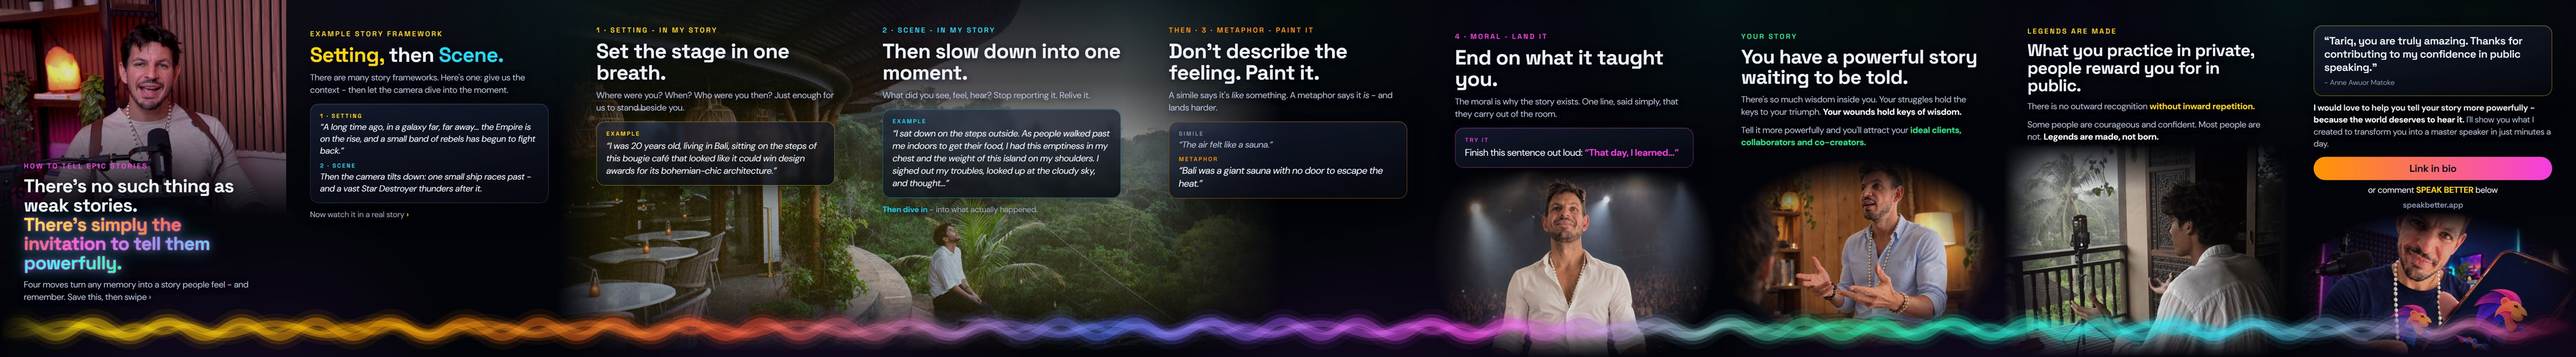
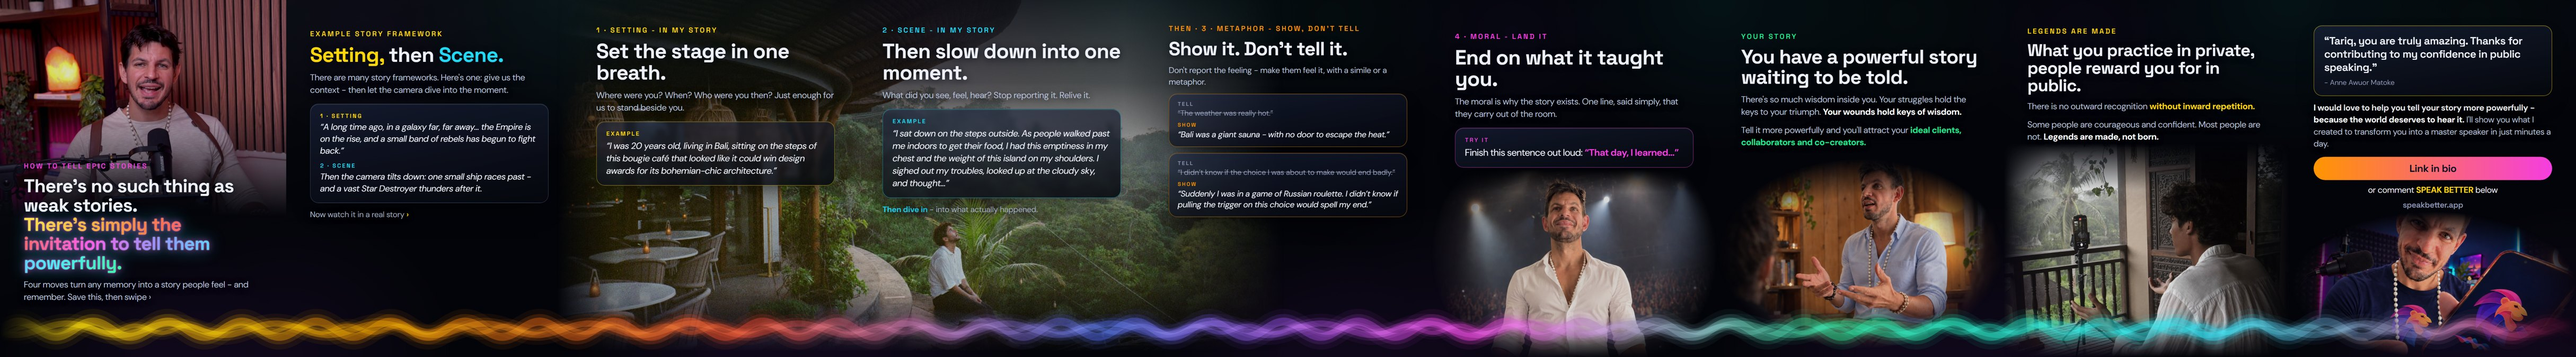
Phone deck viewer: Post 4 black - slide 5 as show, don't tell

Changed region(s): [[0.435, 0.1244, 0.5593, 0.5911], [0.435, 0.0622, 0.5282, 0.0933]]

diff --git a/public/d-BlBAiR0ZRDrG/post4-black.html b/public/d-BlBAiR0ZRDrG/post4-black.html
@@ -5,7 +5,7 @@ main{max-width:540px;margin:0 auto;padding:16px 16px 48px}h1{font-size:18px;marg
 .dots{display:flex;justify-content:center;gap:6px;margin:10px 0 18px}.dots i{width:6px;height:6px;border-radius:50%;background:#36406a}.dots i.on{background:#22D9F5}
 .pano{overflow-x:auto;border-radius:8px}.pano img{height:260px;display:block}h2{font-size:14px;margin:22px 0 8px;color:#B9C0D8}</style></head><body><main>
 <a href="index.html">‹ All</a><h1>Post 4 · How to Tell Epic Stories - black</h1><small>9 slides · swipe like Instagram</small><small style="display:block;margin:6px 0">Version: <a href="post4.html">Glassy gradient</a> · <a href="post4-black.html">Black</a></small>
-<div class="car" id="c"><img src="post4-black/01.jpg?v=8" alt="Slide 1"><img src="post4-black/02.jpg?v=8" alt="Slide 2"><img src="post4-black/03.jpg?v=8" alt="Slide 3"><img src="post4-black/04.jpg?v=8" alt="Slide 4"><img src="post4-black/05.jpg?v=8" alt="Slide 5"><img src="post4-black/06.jpg?v=8" alt="Slide 6"><img src="post4-black/07.jpg?v=8" alt="Slide 7"><img src="post4-black/08.jpg?v=8" alt="Slide 8"><img src="post4-black/09.jpg?v=8" alt="Slide 9"></div><div class="dots" id="d"><i></i><i></i><i></i><i></i><i></i><i></i><i></i><i></i><i></i></div>
-<h2>The whole panorama (scroll sideways)</h2><div class="pano"><img src="post4-black/panorama.jpg?v=8" alt="Full panorama"></div>
+<div class="car" id="c"><img src="post4-black/01.jpg?v=9" alt="Slide 1"><img src="post4-black/02.jpg?v=9" alt="Slide 2"><img src="post4-black/03.jpg?v=9" alt="Slide 3"><img src="post4-black/04.jpg?v=9" alt="Slide 4"><img src="post4-black/05.jpg?v=9" alt="Slide 5"><img src="post4-black/06.jpg?v=9" alt="Slide 6"><img src="post4-black/07.jpg?v=9" alt="Slide 7"><img src="post4-black/08.jpg?v=9" alt="Slide 8"><img src="post4-black/09.jpg?v=9" alt="Slide 9"></div><div class="dots" id="d"><i></i><i></i><i></i><i></i><i></i><i></i><i></i><i></i><i></i></div>
+<h2>The whole panorama (scroll sideways)</h2><div class="pano"><img src="post4-black/panorama.jpg?v=9" alt="Full panorama"></div>
 <small style="display:block;margin-top:18px">Private link - please don't share.</small></main>
 <script>const c=document.getElementById("c"),d=[...document.querySelectorAll("#d i")];const u=()=>{const i=Math.round(c.scrollLeft/c.clientWidth);d.forEach((x,k)=>x.classList.toggle("on",k===i))};c.addEventListener("scroll",u,{passive:true});u();</script></body></html>
